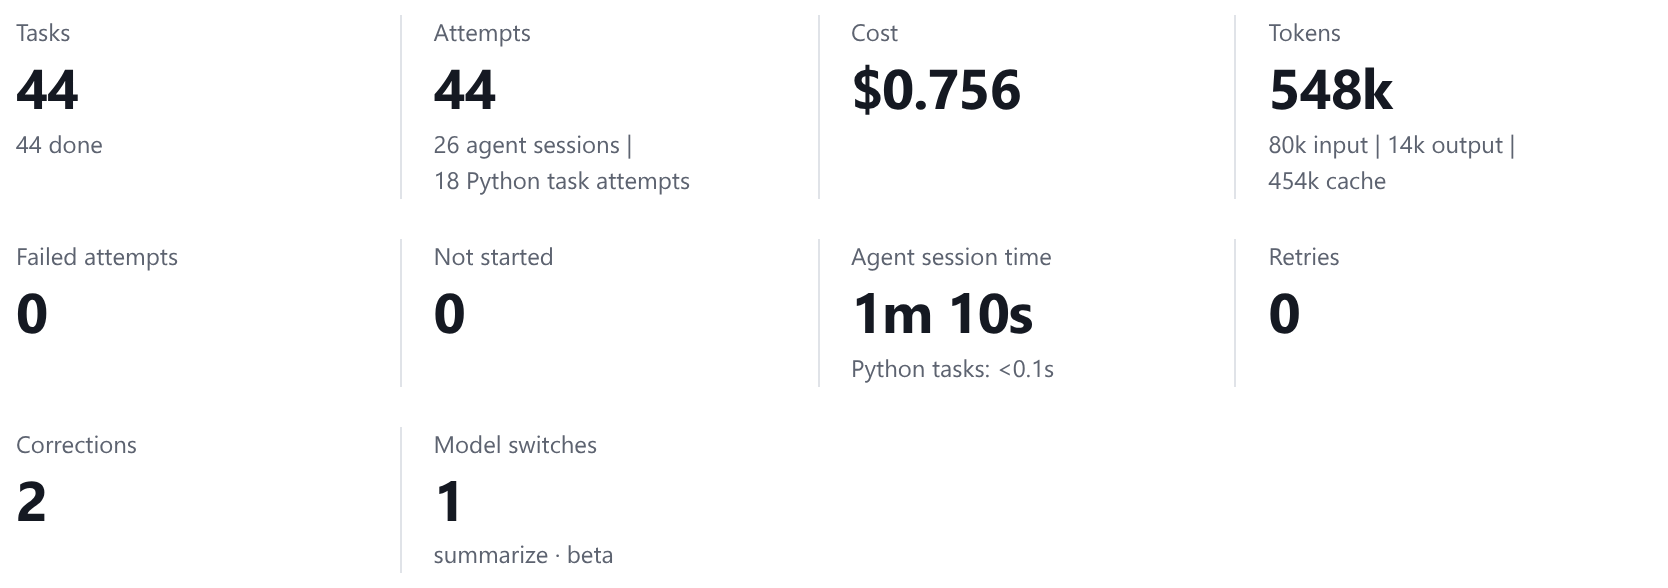
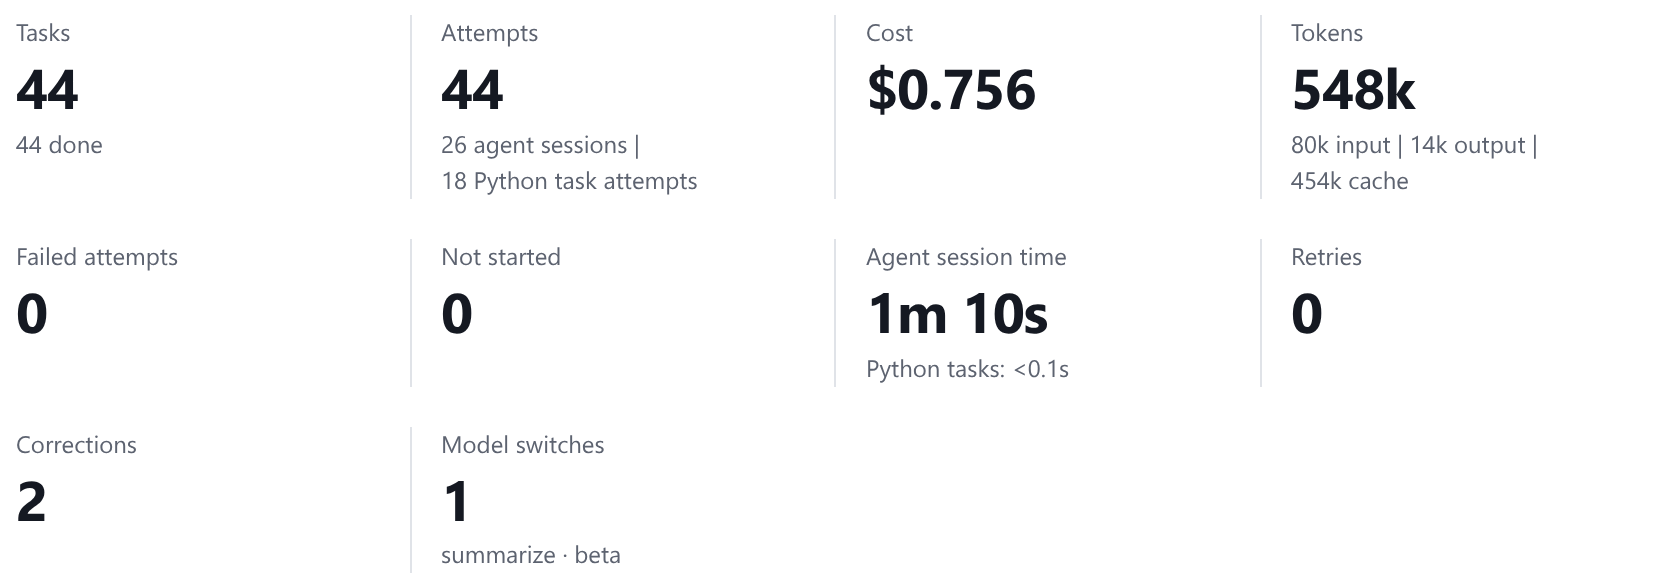
Draw the tiles' lines in the space between tiles
The stat tiles drew the line before a tile as the tile's own border and
moved the row left by the tile's padding, so that the first line fell
outside the host. A page that gives the tile part a padding of its own
then moved the first column out of the host with it: the landing page
of the documentation site, which does, showed "asks" for "Tasks".

The line is now drawn in the middle of the space before a tile, from
--cae-stat-tiles-gap, and a tile has no padding of its own, so nothing a
page sets on the tile part can clip it. The landing page sets the space
through the property and no longer gives each tile a box.

The documentation's screenshots are taken again.

diff --git a/src/contraagent/_internal/monitor/static/app.js b/src/contraagent/_internal/monitor/static/app.js
@@ -63,7 +63,7 @@ ${H(a,this.rowKey,(e,t)=>this.row(e,i+t,r))}
 ${c>0?D`<tr class="spacer" aria-hidden="true" style="height: ${c}px"></tr>`:k}
 ${t?k:D`<tr class="empty" role="row"><td part="empty" role="cell" colspan=${this.columns.length||1}><slot name="empty">${e.empty}</slot></td></tr>`}
 </tbody>
-</table>`}};U([F({attribute:!1})],Co.prototype,`columns`,void 0),U([F({attribute:!1})],Co.prototype,`rows`,void 0),U([F({attribute:!1})],Co.prototype,`rowKey`,void 0),U([F({attribute:!1})],Co.prototype,`rowTone`,void 0),U([F({attribute:!1})],Co.prototype,`rowAttrs`,void 0),U([F({type:Boolean})],Co.prototype,`activatable`,void 0),U([F()],Co.prototype,`selected`,void 0),U([F({attribute:!1})],Co.prototype,`sort`,void 0),U([F({type:Number})],Co.prototype,`windowAt`,void 0),U([F({type:Number})],Co.prototype,`rowHeight`,void 0),U([F()],Co.prototype,`caption`,void 0),U([F({attribute:!1})],Co.prototype,`strings`,void 0),U([F({attribute:!1})],Co.prototype,`cellStyles`,void 0),U([I()],Co.prototype,`range`,void 0);var wo=E` :host{display:block;container-type:inline-size;overflow:clip;}.tiles{display:grid;grid-template-columns:repeat(var(--cae-stat-tiles-columns,5),minmax(0,1fr));gap:var(--cae-stat-tiles-gap,20px) 0;margin-inline-start:-17px;}@container (max-width:1100px){.tiles{grid-template-columns:repeat(4,minmax(0,1fr));}}@container (max-width:660px){.tiles{grid-template-columns:repeat(2,minmax(0,1fr));}}@container (max-width:420px){.value{font-size:var(--font-size-xl);}}@container (max-width:240px){.tiles{grid-template-columns:minmax(0,1fr);}}.tile{position:relative;min-width:0;padding:0 16px;border-inline-start:1px solid var(--line);}.label{font-size:var(--font-size-xs);font-weight:500;color:var(--text-muted);}.value{overflow-wrap:anywhere;font-size:var(--font-size-2xl);font-weight:650;line-height:1.2;margin-top:2px;font-variant-numeric:tabular-nums;letter-spacing:-0.02em;color:var(--text);}.sub{font-size:var(--font-size-xs);color:var(--text-muted);margin-top:2px;}.action{position:absolute;inset:0 4px;border-radius:var(--radius-md);}.action:focus-visible{outline-offset:calc(-1 * var(--focus-width));}.tile:has(.action):hover .label{color:var(--accent);}.tile[data-tone] .value,.tile[data-tone] .label::before{color:var(--tone);}.label[data-mark]::before{display:inline-block;}`,To=()=>globalThis.matchMedia?.(`(prefers-reduced-motion: reduce)`).matches??!1,Eo=class extends A{constructor(...e){super(...e),this.tiles=[],this.columns=5,this.bump=!0,this.prev=new Map,this.changed=[]}static{this.styles=[V,wo]}willUpdate(e){if(e.has(`tiles`))for(let e of this.tiles)typeof e.value==`number`&&((this.prev.get(e.id)??0)!==e.value&&this.changed.push(e.id),this.prev.set(e.id,e.value))}render(){return D`<div class="tiles" part="tiles" style=${this.columns===5?k:`--cae-stat-tiles-columns:${this.columns}`}>
+</table>`}};U([F({attribute:!1})],Co.prototype,`columns`,void 0),U([F({attribute:!1})],Co.prototype,`rows`,void 0),U([F({attribute:!1})],Co.prototype,`rowKey`,void 0),U([F({attribute:!1})],Co.prototype,`rowTone`,void 0),U([F({attribute:!1})],Co.prototype,`rowAttrs`,void 0),U([F({type:Boolean})],Co.prototype,`activatable`,void 0),U([F()],Co.prototype,`selected`,void 0),U([F({attribute:!1})],Co.prototype,`sort`,void 0),U([F({type:Number})],Co.prototype,`windowAt`,void 0),U([F({type:Number})],Co.prototype,`rowHeight`,void 0),U([F()],Co.prototype,`caption`,void 0),U([F({attribute:!1})],Co.prototype,`strings`,void 0),U([F({attribute:!1})],Co.prototype,`cellStyles`,void 0),U([I()],Co.prototype,`range`,void 0);var wo=E` :host{display:block;container-type:inline-size;overflow-x:clip;}.tiles{--_gap:var(--cae-stat-tiles-gap,32px);display:grid;grid-template-columns:repeat(var(--cae-stat-tiles-columns,5),minmax(0,1fr));gap:min(var(--_gap),20px) var(--_gap);}@container (max-width:1100px){.tiles{grid-template-columns:repeat(4,minmax(0,1fr));}}@container (max-width:660px){.tiles{grid-template-columns:repeat(2,minmax(0,1fr));}}@container (max-width:420px){.value{font-size:var(--font-size-xl);}}@container (max-width:240px){.tiles{grid-template-columns:minmax(0,1fr);}}.tile{position:relative;min-width:0;}.tile::before{content:'';position:absolute;inset-block:0;inset-inline-start:calc(var(--_gap) / -2);border-inline-start:1px solid var(--line);}.label{font-size:var(--font-size-xs);font-weight:500;color:var(--text-muted);}.value{overflow-wrap:anywhere;font-size:var(--font-size-2xl);font-weight:650;line-height:1.2;margin-top:2px;font-variant-numeric:tabular-nums;letter-spacing:-0.02em;color:var(--text);}.sub{font-size:var(--font-size-xs);color:var(--text-muted);margin-top:2px;}.action{position:absolute;inset:0;border-radius:var(--radius-md);}.action:focus-visible{outline-offset:2px;}.tile:has(.action):hover .label{color:var(--accent);}.tile[data-tone] .value,.tile[data-tone] .label::before{color:var(--tone);}.label[data-mark]::before{display:inline-block;}`,To=()=>globalThis.matchMedia?.(`(prefers-reduced-motion: reduce)`).matches??!1,Eo=class extends A{constructor(...e){super(...e),this.tiles=[],this.columns=5,this.bump=!0,this.prev=new Map,this.changed=[]}static{this.styles=[V,wo]}willUpdate(e){if(e.has(`tiles`))for(let e of this.tiles)typeof e.value==`number`&&((this.prev.get(e.id)??0)!==e.value&&this.changed.push(e.id),this.prev.set(e.id,e.value))}render(){return D`<div class="tiles" part="tiles" style=${this.columns===5?k:`--cae-stat-tiles-columns:${this.columns}`}>
 ${H(this.tiles,e=>e.id,e=>this.tile(e))}
 </div>`}tile(e){let t=e.tone??`neutral`;return D`<div class="tile" part="tile" data-tone=${L(t)} data-id=${e.id} title=${e.tip??k}>
 <div class="label words" part="label" data-mark=${Li(t)??k}>${e.label}</div>

diff --git a/web/packages/elements/src/tiles/styles.ts b/web/packages/elements/src/tiles/styles.ts
@@ -5,20 +5,23 @@
 import { css } from 'lit';
 
 export const statTilesStyles = css`
-  /* the line before the first tile of a row lies outside the host, which clips it */
-  :host { display: block; container-type: inline-size; overflow: clip; }
-  .tiles { display: grid; grid-template-columns: repeat(var(--cae-stat-tiles-columns, 5), minmax(0, 1fr)); gap: var(--cae-stat-tiles-gap, 20px) 0; margin-inline-start: -17px; }
+  /* The line before a tile stands in the middle of the space before it, whatever a page gives the tile itself
+     (its part); the one before the first tile of a row lies outside the host, which clips it. */
+  :host { display: block; container-type: inline-size; overflow-x: clip; }
+  .tiles { --_gap: var(--cae-stat-tiles-gap, 32px); display: grid; grid-template-columns: repeat(var(--cae-stat-tiles-columns, 5), minmax(0, 1fr));
+    gap: min(var(--_gap), 20px) var(--_gap); }
   @container (max-width: 1100px) { .tiles { grid-template-columns: repeat(4, minmax(0, 1fr)); } }
   @container (max-width: 660px) { .tiles { grid-template-columns: repeat(2, minmax(0, 1fr)); } }
   @container (max-width: 420px) { .value { font-size: var(--font-size-xl); } }
   @container (max-width: 240px) { .tiles { grid-template-columns: minmax(0, 1fr); } }
-  .tile { position: relative; min-width: 0; padding: 0 16px; border-inline-start: 1px solid var(--line); }
+  .tile { position: relative; min-width: 0; }
+  .tile::before { content: ''; position: absolute; inset-block: 0; inset-inline-start: calc(var(--_gap) / -2); border-inline-start: 1px solid var(--line); }
   .label { font-size: var(--font-size-xs); font-weight: 500; color: var(--text-muted); }
   .value { overflow-wrap: anywhere; font-size: var(--font-size-2xl); font-weight: 650; line-height: 1.2; margin-top: 2px; font-variant-numeric: tabular-nums; letter-spacing: -0.02em; color: var(--text); }
   .sub { font-size: var(--font-size-xs); color: var(--text-muted); margin-top: 2px; }
   /* a tile with an action is a link as a whole: the link covers the tile */
-  .action { position: absolute; inset: 0 4px; border-radius: var(--radius-md); }
-  .action:focus-visible { outline-offset: calc(-1 * var(--focus-width)); }
+  .action { position: absolute; inset: 0; border-radius: var(--radius-md); }
+  .action:focus-visible { outline-offset: 2px; }
   .tile:has(.action):hover .label { color: var(--accent); }
   .tile[data-tone] .value, .tile[data-tone] .label::before { color: var(--tone); }
   .label[data-mark]::before { display: inline-block; }

diff --git a/web/packages/elements/src/tiles/stat-tiles.ts b/web/packages/elements/src/tiles/stat-tiles.ts
@@ -18,7 +18,9 @@ const reducedMotion = () => globalThis.matchMedia?.('(prefers-reduced-motion: re
  * changes bumps, unless `bump` is off or the reader asks for reduced motion.
  *
  * Its look: `columns` (fewer in a narrow element: 4 below 1100px of its
- * width, 2 below 660px, 1 below 240px), `--cae-stat-tiles-gap` and the parts.
+ * width, 2 below 660px, 1 below 240px), `--cae-stat-tiles-gap` (the space
+ * between two tiles of a row, in whose middle the line between them stands;
+ * the rows are that far apart too, 20px at most) and the parts.
  *
  * @tagname cae-stat-tiles
  * @fires cae-action - `{id, action}`: a tile's link, by the tile's id and the action's id

diff --git a/changelog.d/web-packages-form.changed.md b/changelog.d/web-packages-form.changed.md
@@ -6,6 +6,6 @@
 - `--ca-line-field` is new: the edge of a text field, at 3:1 against the surfaces.
 - `<cae-segmented>` is a track with the chosen option raised on it; `--cae-segmented-divider` is removed.
 - `<cae-layered-graph>` draws on its host's surface; `--cae-graph-frame` sets a surface of its own.
-- `<cae-stat-tiles>` draws figures with a line between two of a row, without a box per tile.
+- `<cae-stat-tiles>` draws figures with a line between two of a row, without a box per tile. The line stands in the middle of `--cae-stat-tiles-gap` (32px by default, 12px before): set the space with that property, not with `gap` on the `tiles` part.
 - `TranscriptTag.bare` shows a tag's value without its label, which a screen reader still reads.
 - `<ca-theme-switch>` → `<ca-settings>`, which also holds the language (`ca-choose-locale`, new) and the keys; `<ca-clock>` is removed.

diff --git a/web/packages/elements/docs/tiles.md b/web/packages/elements/docs/tiles.md
@@ -38,5 +38,7 @@ what it opens.
 
 `columns` sets the tiles per row in a wide element (5); a narrower one has 4
 below 1100px of its width, 2 below 660px and 1 below 240px. `--cae-stat-tiles-gap` sets the space between
-the tiles. The parts are `tiles`, `tile` (with `data-id` and `data-tone`),
+two tiles of a row (32px), in whose middle the line between them stands; the rows are that far apart
+too, 20px at most. Change the space with this property, not with `gap` on the `tiles` part: the line
+follows the property. The parts are `tiles`, `tile` (with `data-id` and `data-tone`),
 `label`, `value`, `sub` and `action` (the link over a tile).
